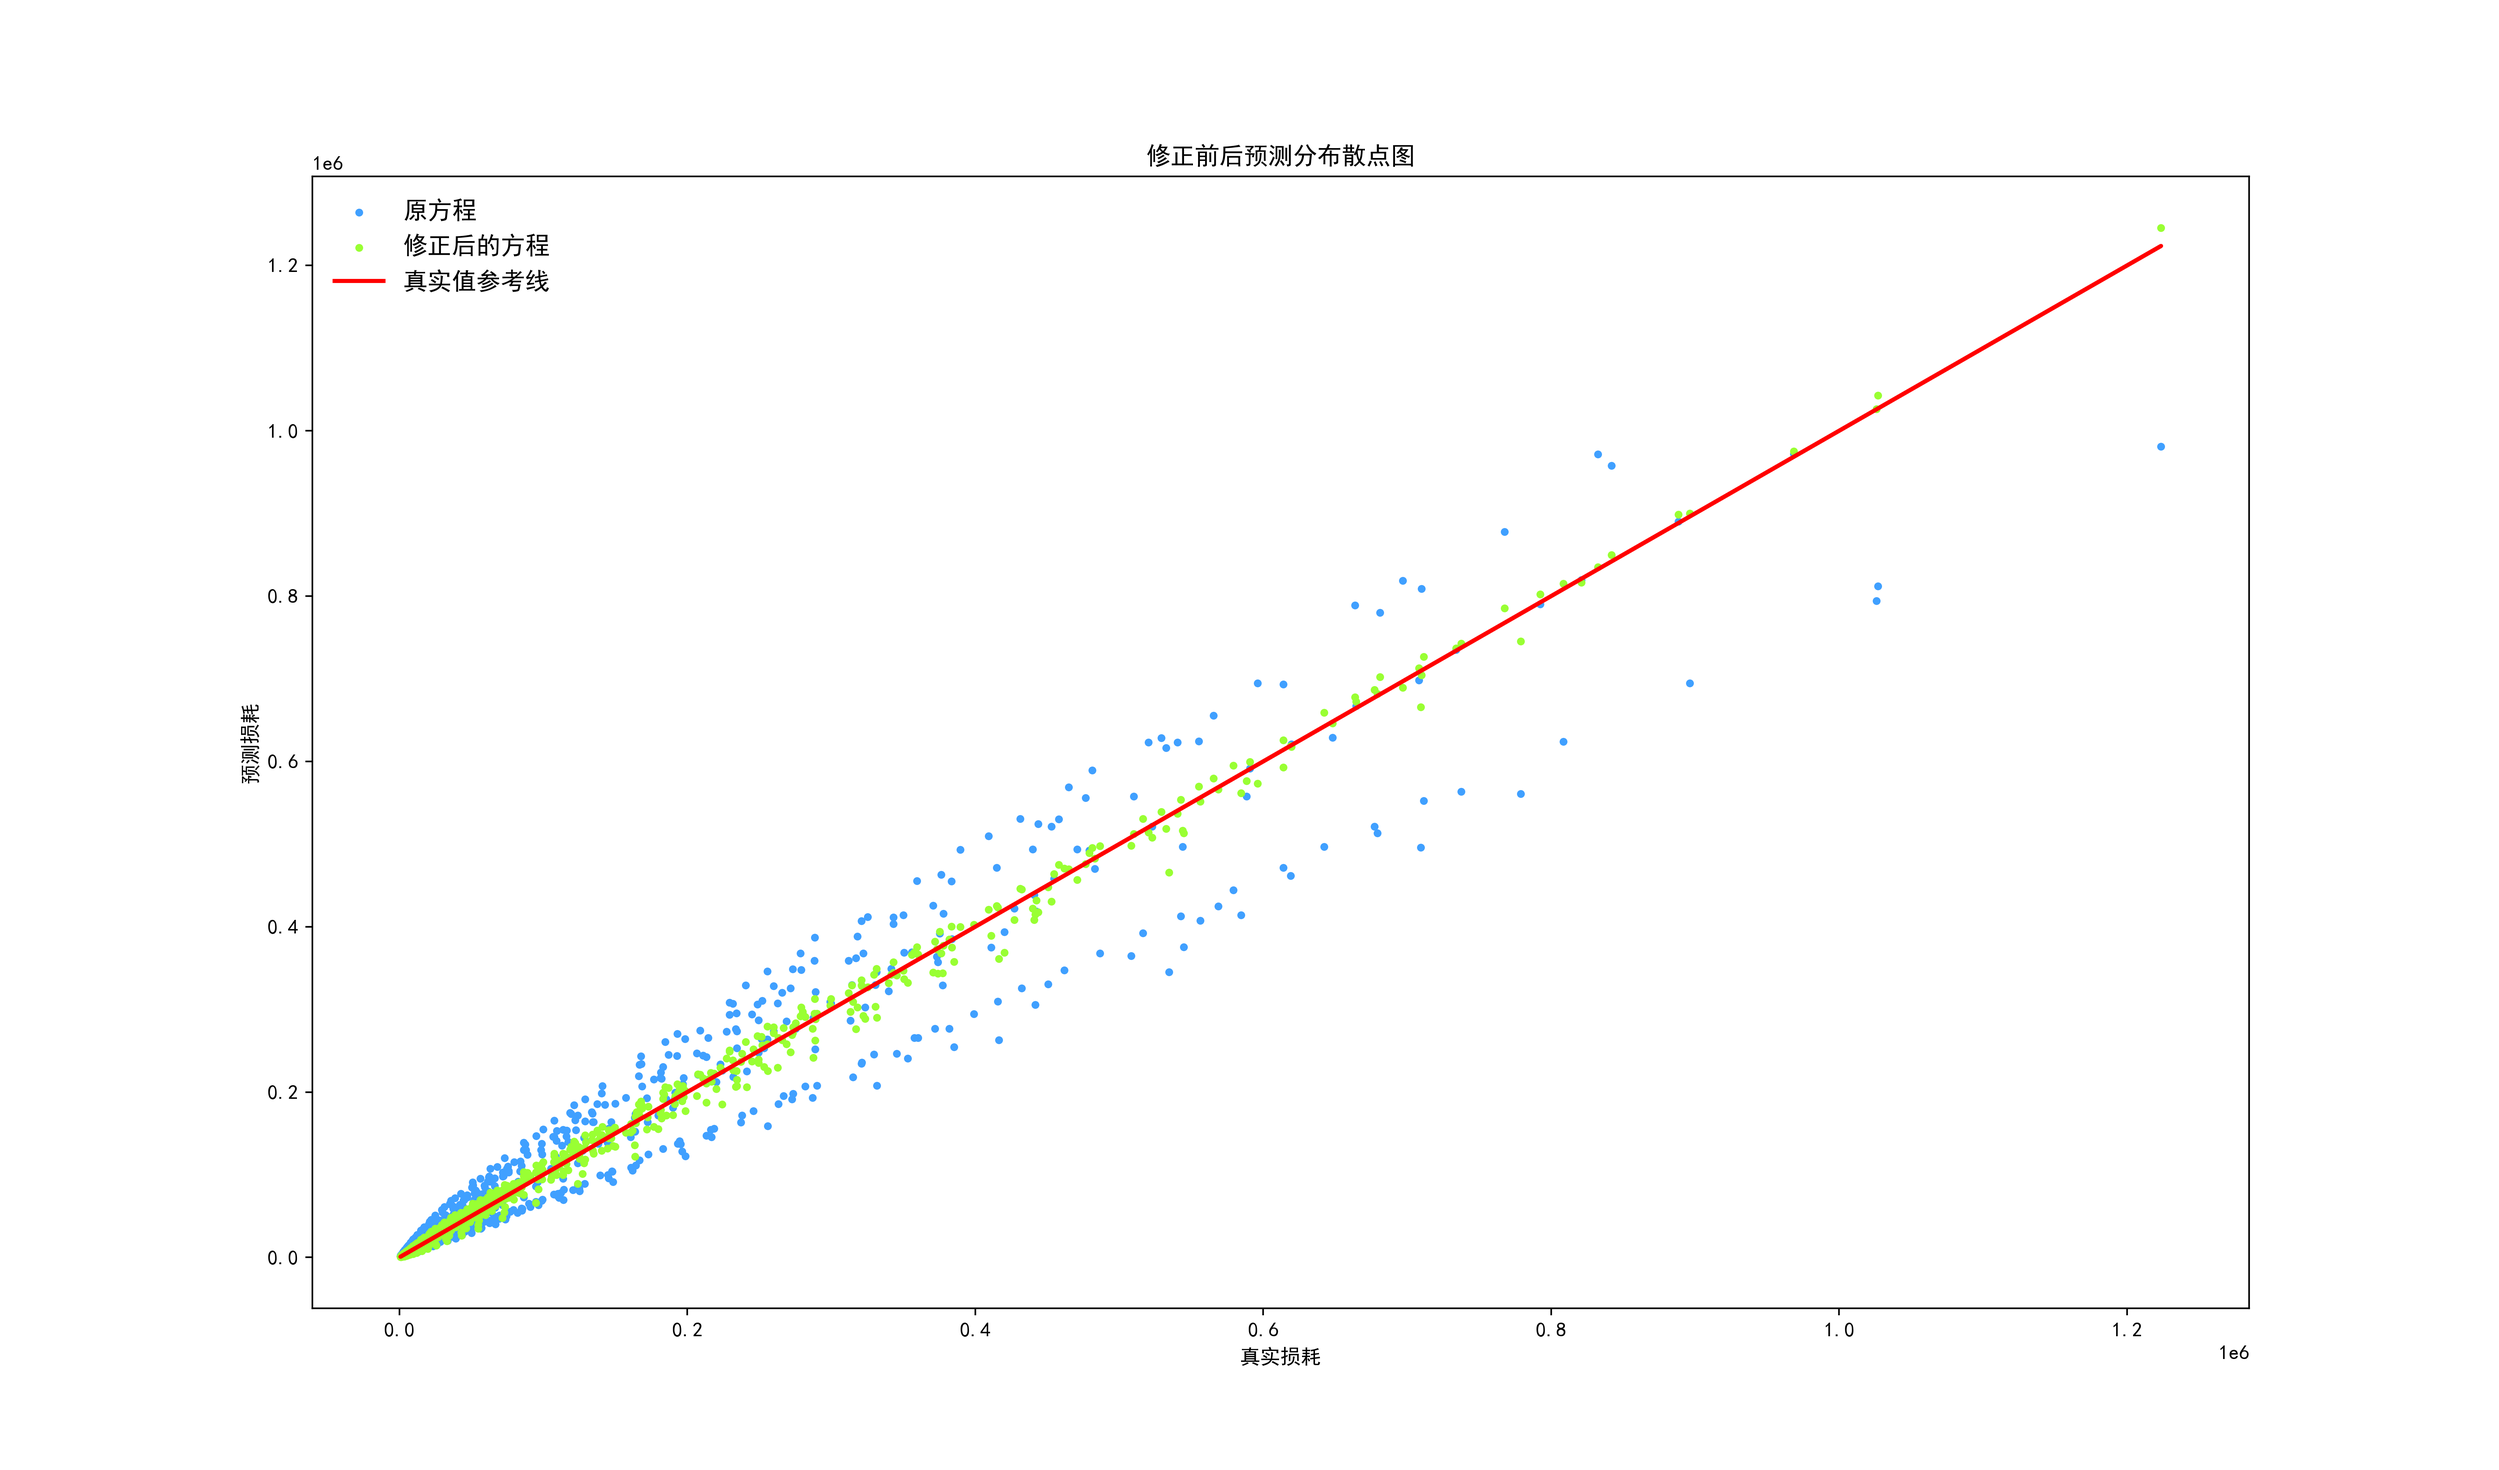
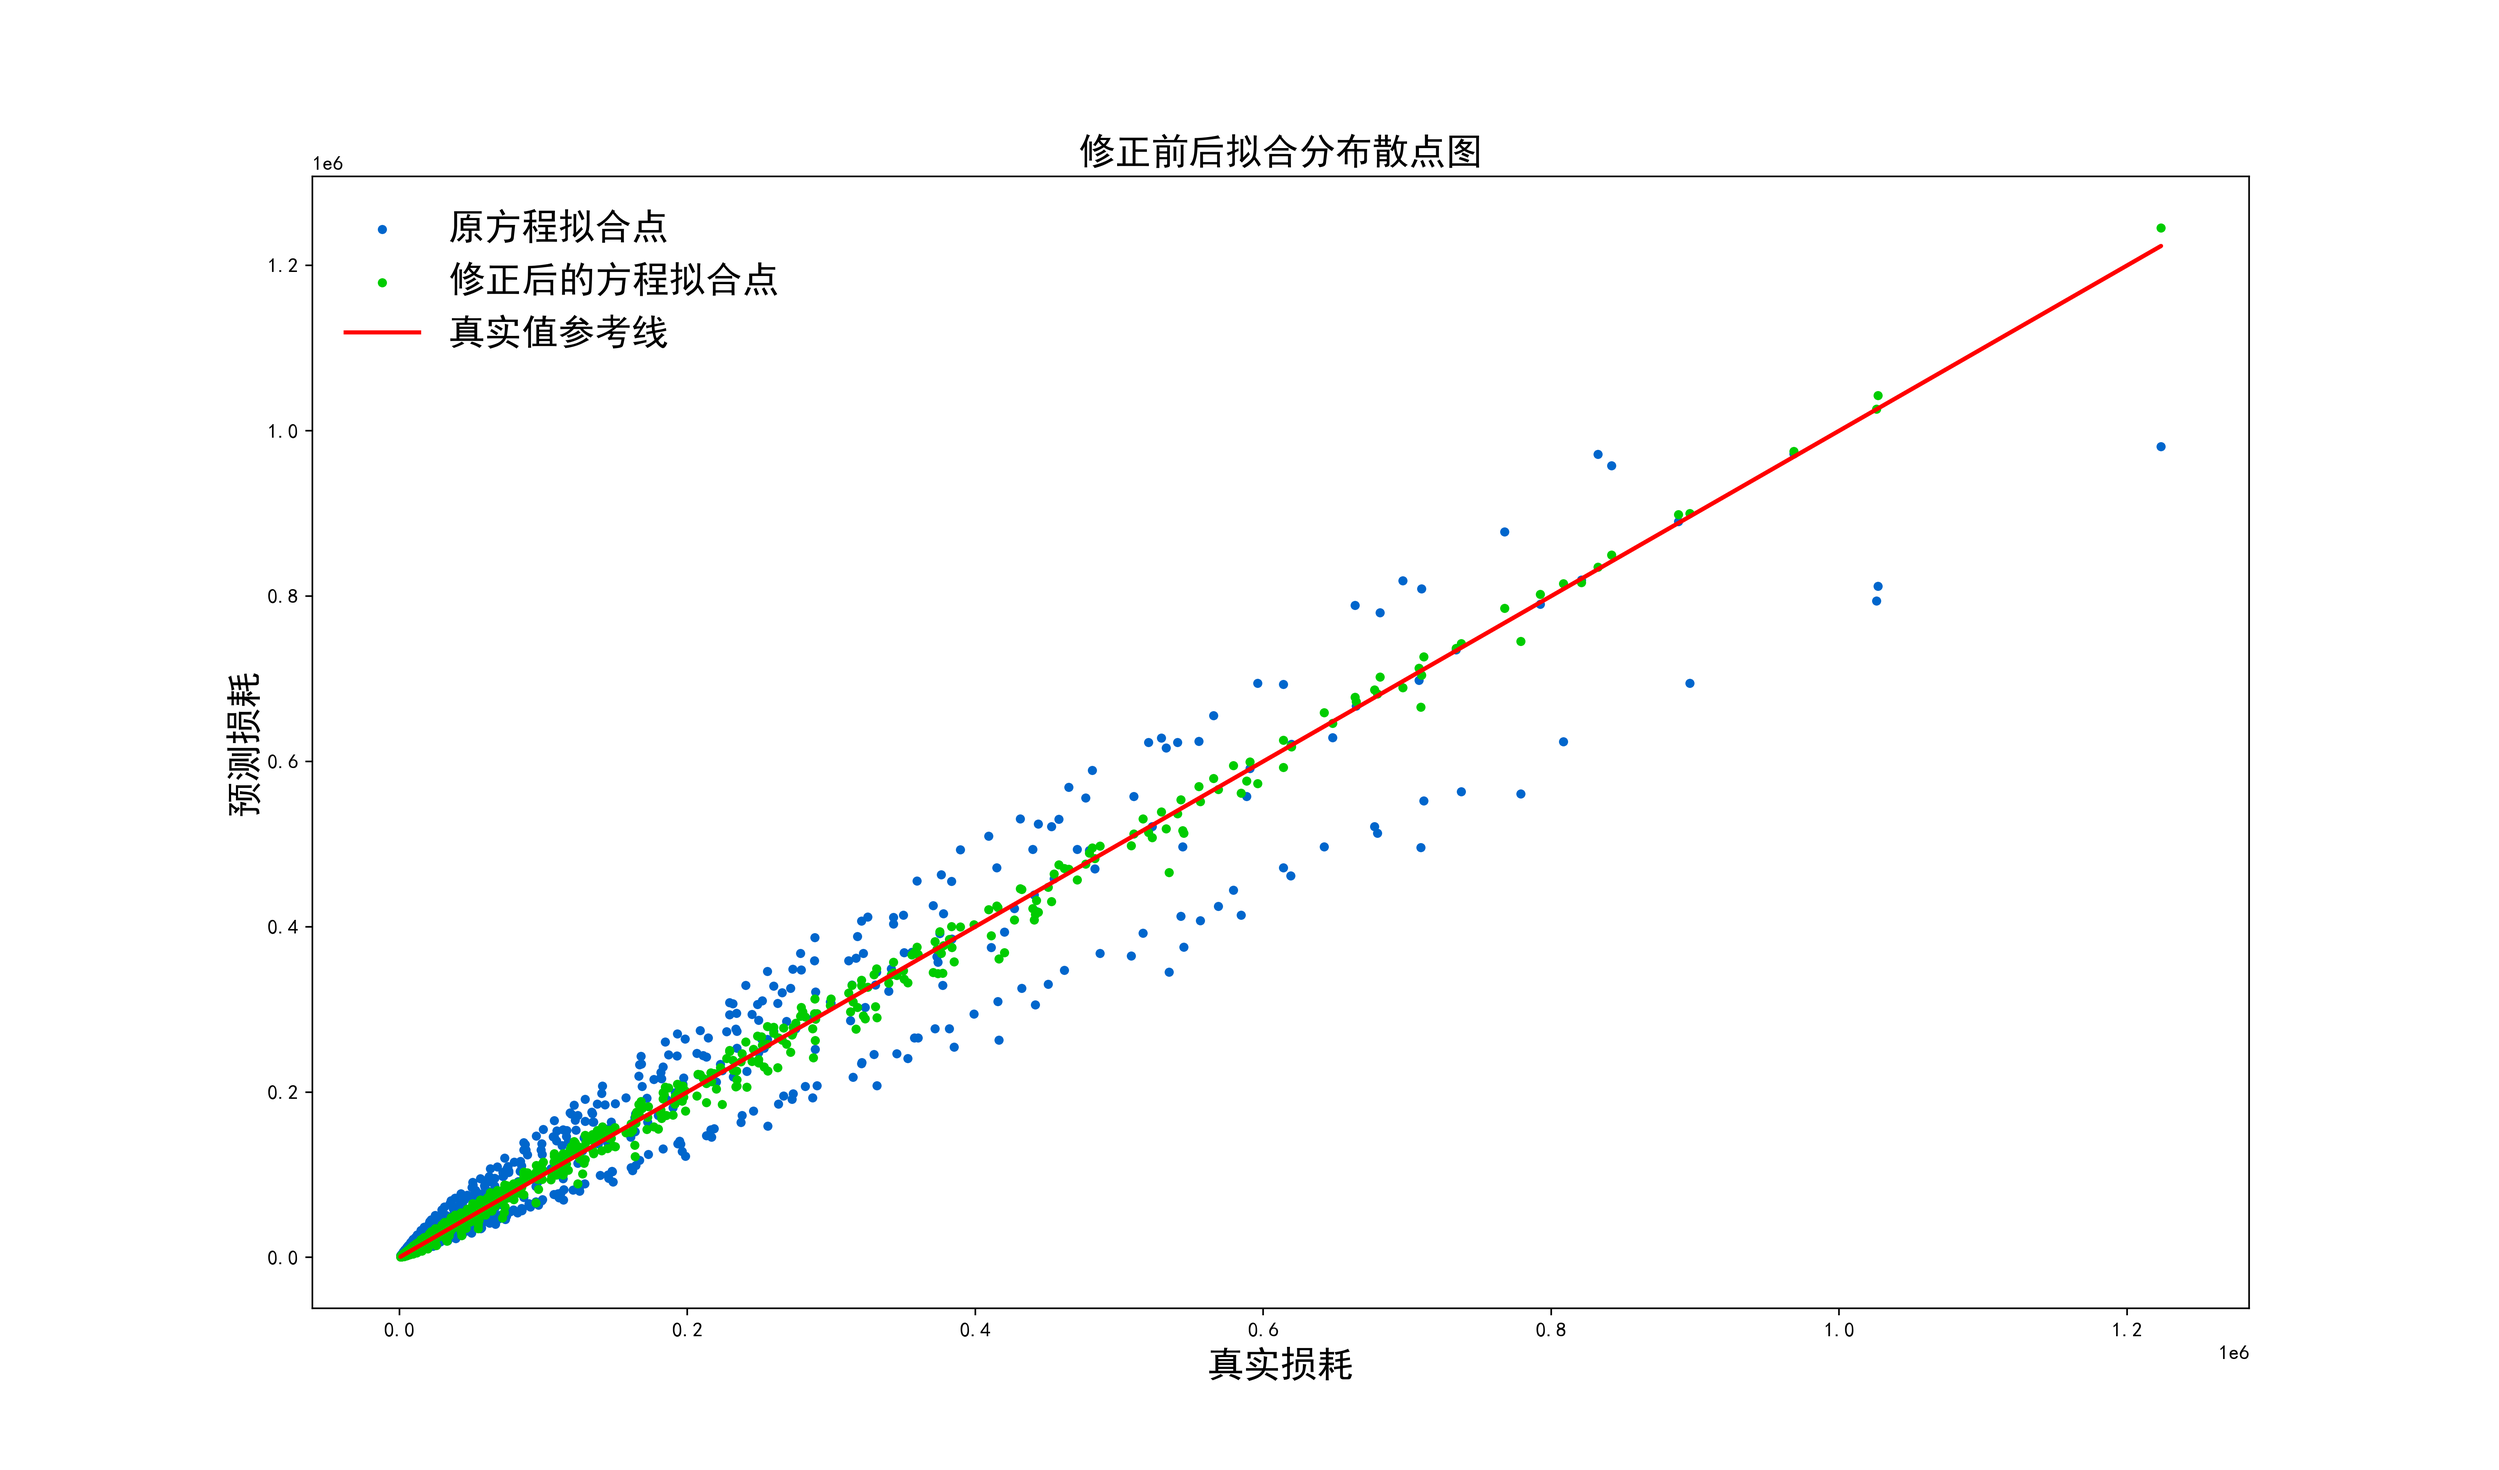
更新问题2误差分析图

diff --git a/question2/SE_error_analyze_different_temp.py b/question2/SE_error_analyze_different_temp.py
@@ -118,32 +118,32 @@ if __name__ == '__main__':
         '斯坦麦茨方程': [e / (10 ** norm_len[i]) for i, e in enumerate(error_metrics_origin)],
         '修正后的斯坦麦茨方程': [e / (10 ** norm_len[i]) for i, e in enumerate(error_metrics_new)]
     })
-    # 可视化：分组直方图
-    df_norm.set_index('Metric').plot(kind='bar', figsize=(10, 6))
-    plt.title('修正前后的误差指标对比直方图', fontsize=20)
-    plt.ylabel('Score', fontsize=20)
-    plt.xticks(rotation=0)
-    plt.savefig(f'./修正前后的误差指标对比直方图.png', dpi=500)
-    plt.show()
-
-    # 画散点图
-    fig, ax = plt.subplots(figsize=(17, 10))
-    x = range(len(y_true))
-    colors = ['#40A0FF', '#99FF33','#7A40FF','#FF3399']
-    ax.scatter(y_true, y_pred_origin, color='#40A0FF', s=8, label="原方程")
-    ax.scatter(y_true, y_pred_new, color='#99FF33', s=8, label="修正后的方程")
-    ax.plot(y_true, y_true,  color='red', linewidth=2, label="真实值参考线")
-    # loc='best'：这个参数指定图例的最佳位置
-    # fontsize=12 指定图例大小
-    # frameon=False：这个参数决定是否在图例周围绘制一个边框
-    # ncol=1：这个参数指定图例中的条目应该被排列成多少列
-    plt.legend(loc='best', fontsize=12, frameon=False, ncol=1)
-    # 设置图表标题和轴标签
-    plt.title('修正前后预测分布散点图')
-    plt.xlabel('真实损耗')
-    plt.ylabel('预测损耗')
-    plt.savefig(f'./修正前后预测分布散点图.png', dpi=400)
-    plt.show()
+    # # 可视化：分组直方图
+    # df_norm.set_index('Metric').plot(kind='bar', figsize=(10, 6))
+    # plt.title('修正前后的误差指标对比直方图', fontsize=20)
+    # plt.ylabel('误差值', fontsize=20)
+    # plt.xlabel('误差指标', fontsize=20)
+    # plt.xticks(rotation=0)
+    # plt.savefig(f'./修正前后的误差指标对比直方图.png', dpi=500)
+    # plt.show()
+    #
+    # # 画散点图
+    # fig, ax = plt.subplots(figsize=(17, 10))
+    # x = range(len(y_true))
+    # ax.scatter(y_true, y_pred_origin, color='#0066CC', s=12, label="原方程拟合点")
+    # ax.scatter(y_true, y_pred_new, color='#00CC00', s=12, label="修正后的方程拟合点")
+    # ax.plot(y_true, y_true,  color='red', linewidth=2, label="真实值参考线")
+    # # loc='best'：这个参数指定图例的最佳位置
+    # # fontsize=12 指定图例大小
+    # # frameon=False：这个参数决定是否在图例周围绘制一个边框
+    # # ncol=1：这个参数指定图例中的条目应该被排列成多少列
+    # plt.legend(loc='best', fontsize=18, frameon=False, ncol=1)
+    # # 设置图表标题和轴标签
+    # plt.title('修正前后拟合分布散点图', fontsize=18)
+    # plt.xlabel('真实损耗', fontsize=18)
+    # plt.ylabel('预测损耗', fontsize=18)
+    # plt.savefig(f'./修正前后预测分布散点图.png', dpi=400)
+    # plt.show()
 
     # # --------------------------多段温度分析------------------------
     # temp_index = [filtered_df[filtered_df['温度'] == 25].index,
@@ -172,22 +172,23 @@ if __name__ == '__main__':
     # plt.show()
 
     # 画不同温度下预测结果的散点图
-    # fig, ax = plt.subplots(figsize=(17, 10))
-    # x = range(len(y_true))
-    # colors = ['#40A0FF', '#99FF33','#7A40FF','#FF3399']
-    # for i, t in enumerate([25,50,70,90]):
-    #     # 筛选出不同温度的预测效果
-    #     temp = filtered_df[filtered_df['温度'] == t]
-    #     y_pred_model1_temp = temp['斯坦麦茨方程'].values
-    #     y_true_temp = temp['磁芯损耗'].values
-    #     ax.scatter(y_true_temp, y_pred_model1_temp, color=colors[i], s=8, label=f"温度{t}")
-    # # ax.scatter(y_true, y_pred_model1, color='#40A0FF', s=8)
-    # ax.plot(y_true, y_true,  color='red', linewidth=2)
-    # plt.legend(loc='best', fontsize=12, frameon=False, ncol=1)
-    # # 设置图表标题和轴标签
-    # plt.title('材料一斯坦麦茨方程预测分布')
-    # plt.xlabel('真实损耗')
-    # plt.ylabel('预测损耗')
-    # plt.savefig(f'./不同温度下斯坦麦茨方程预测分布.png', dpi=400)
-    # plt.show()
+    fig, ax = plt.subplots(figsize=(17, 10))
+    x = range(len(y_true))
+    colors = ['#40A0FF', '#99FF33','#7A40FF','#FF3399']
+    for i, t in enumerate([25,50,70,90]):
+        # 筛选出不同温度的预测效果
+        temp = filtered_df[filtered_df['温度'] == t]
+        y_pred_model1_temp = temp['斯坦麦茨方程'].values
+        y_true_temp = temp['磁芯损耗'].values
+        ax.scatter(y_true_temp, y_pred_model1_temp, color=colors[i], s=8, label=f"温度{t}拟合点")
+    # ax.scatter(y_true, y_pred_model1, color='#40A0FF', s=8)
+    ax.plot(y_true, y_true,  color='red', linewidth=2)
+    plt.legend(loc='best', fontsize=12, frameon=False, ncol=1)
+    # 设置图表标题和轴标签
+    plt.title('材料一不同温度下斯坦麦茨方程拟合分布散点图', fontsize=18)
+    plt.xlabel('真实损耗', fontsize=18)
+    plt.ylabel('预测损耗', fontsize=18)
+    plt.legend(loc='best', fontsize=18, frameon=False, ncol=1)
+    plt.savefig(f'./不同温度下斯坦麦茨方程拟合分布散点图.png', dpi=400)
+    plt.show()
 
